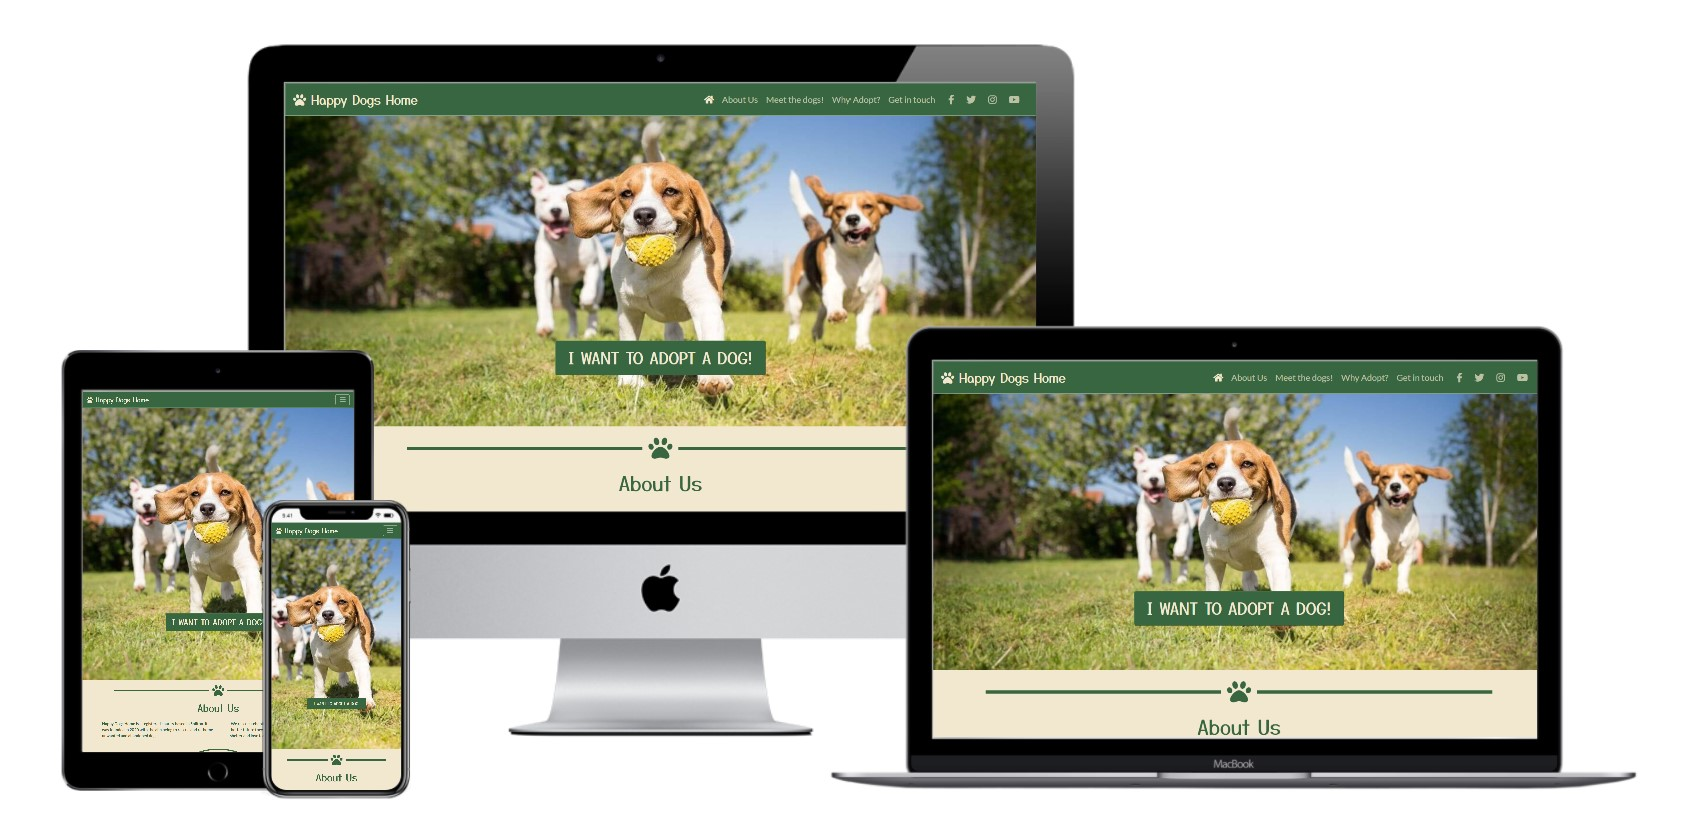
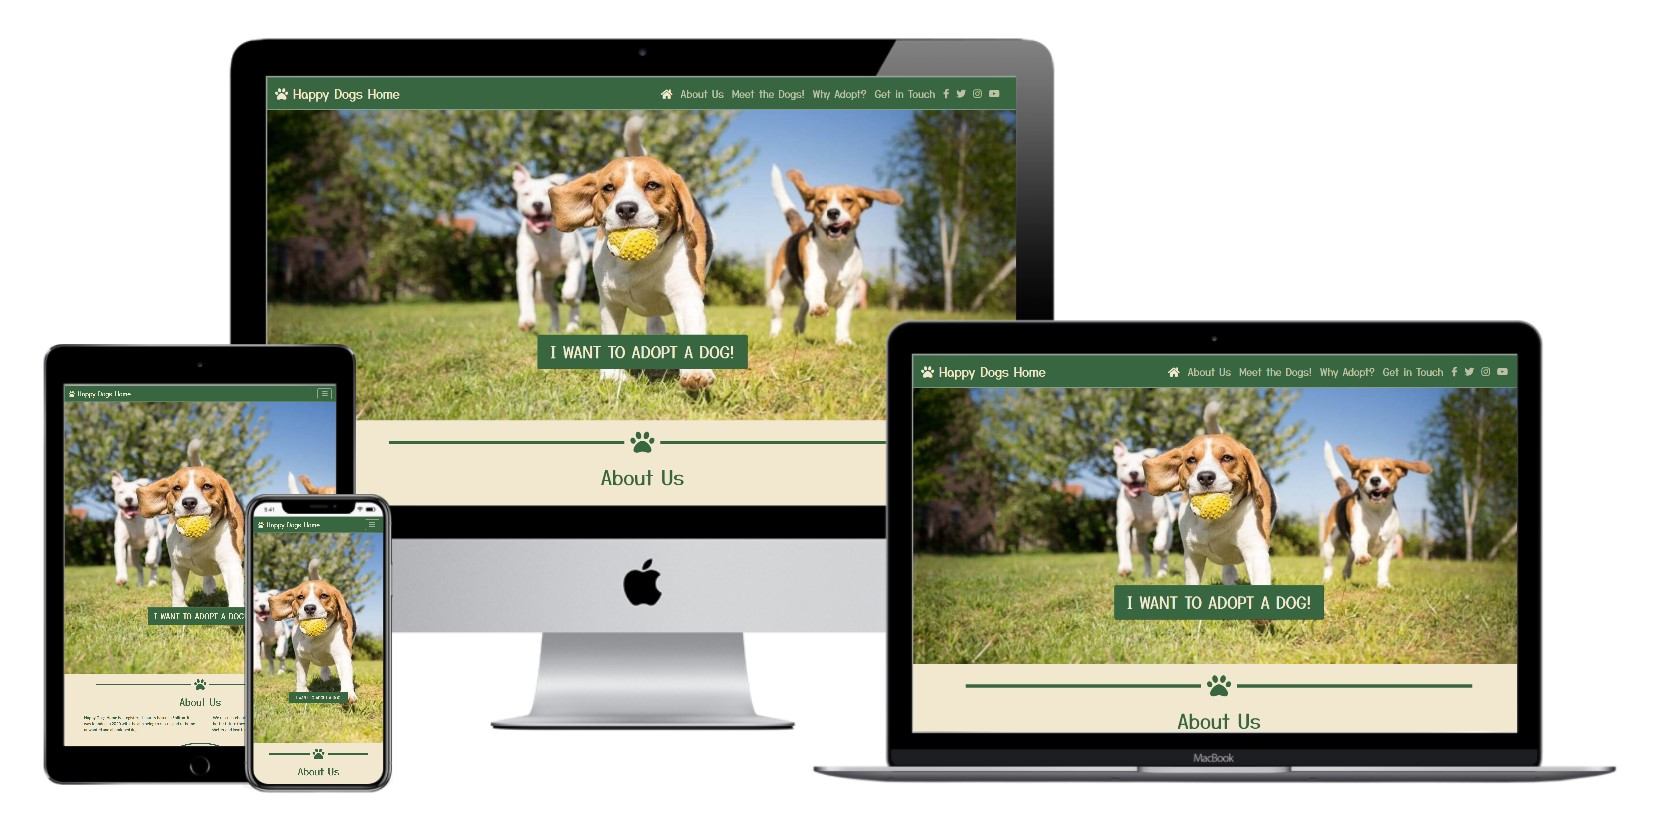
Updating Testing section of Readme file

Changed region(s): [[0.0, 0.0303, 0.9831, 0.9697], [0.3072, 0.8485, 0.4916, 0.9091]]

diff --git a/README.md b/README.md
@@ -154,13 +154,15 @@ My chosen font is Yusei Magic for the headings and Lato for the paragraphs. Thes
 * [Google Fonts](https://fonts.google.com/) - I used the fonts Yusei Magic and Lato
 * [Git](https://git-scm.com/) - Used for version control by utilizing the Gitpod terminal to commit to Git and Push to GitHub
 * [Github](https://github.com/) - GitHub is used to store the projects code after being pushed from Git
-* [Webformatter.com](https://webformatter.com/html) - Used to beautify html
+* [Webformatter.com](https://webformatter.com/html) - Used to beautify HTML
+* [Freeformatter.com](https://www.freeformatter.com/css-beautifier.html) - used to beautify CSS
 * [Techsini Mockup Generator](http://techsini.com/multi-mockup/) - Used for website mockup
 * [Balsamiq](https://balsamiq.com/) - Balsamiq was used to create the [wireframe](documentation/wireframe.pdf) during the design process
 * MS Paint - Used to resize and crop images used
 * [Coolers](https://coolors.co/) to generate the colour pallette
 * [Colorcodehex](https://www.colorcodehex.com/hex-to-rgb.html) to convert hex colours to rgb colours for some translucent elements
 * [TinyPng](https://tinypng.com/) to compress images to smaller file sizes
+* [Markdown table of contents generator](https://ecotrust-canada.github.io/markdown-toc/) - Used to generate TOC in ReadMe file
 
 # Testing
 
@@ -223,7 +225,7 @@ My chosen font is Yusei Magic for the headings and Lato for the paragraphs. Thes
 8. I want to know where the charity is located
     - Our address is in the footer section as standard for most websites. Our opening hours are also visible in this section.
 
-        ![Footer screenshot](documentation/UserStories6.jpg)
+        ![Navbar and Footer screenshot](documentation/UserStories6.jpg)
 
 ### Owner Goals
 
@@ -386,8 +388,8 @@ Click [Here](https://help.github.com/en/github/creating-cloning-and-archiving-re
 
 ### Acknowledgements
 
-* Thanks to my mentor Aaron Sinnott for his helpful advice and pointers.
-* Thanks to the code institute Slack community for providing resources and tips.
+* Thanks to my mentor Aaron Sinnott for his advice and pointers as well as helping me find useful resources.
+* Thanks to the code institute Slack community for providing resources and tips as well as peer-reviewing the project.
 * Thanks to friends and family for taking the time to look at the site and give advice on both content and user stories.
 * [W3 Schools](https://www.w3schools.com/) and [Stackoverflow](https://stackoverflow.com/) were extremely useful when I forgot correct code syntax for both HTML and CSS elements and a quick search in either of these websites would usually give me the answer I needed.
 * Chrome Dev Tools was extremely useful for testing and adjusting CSS
